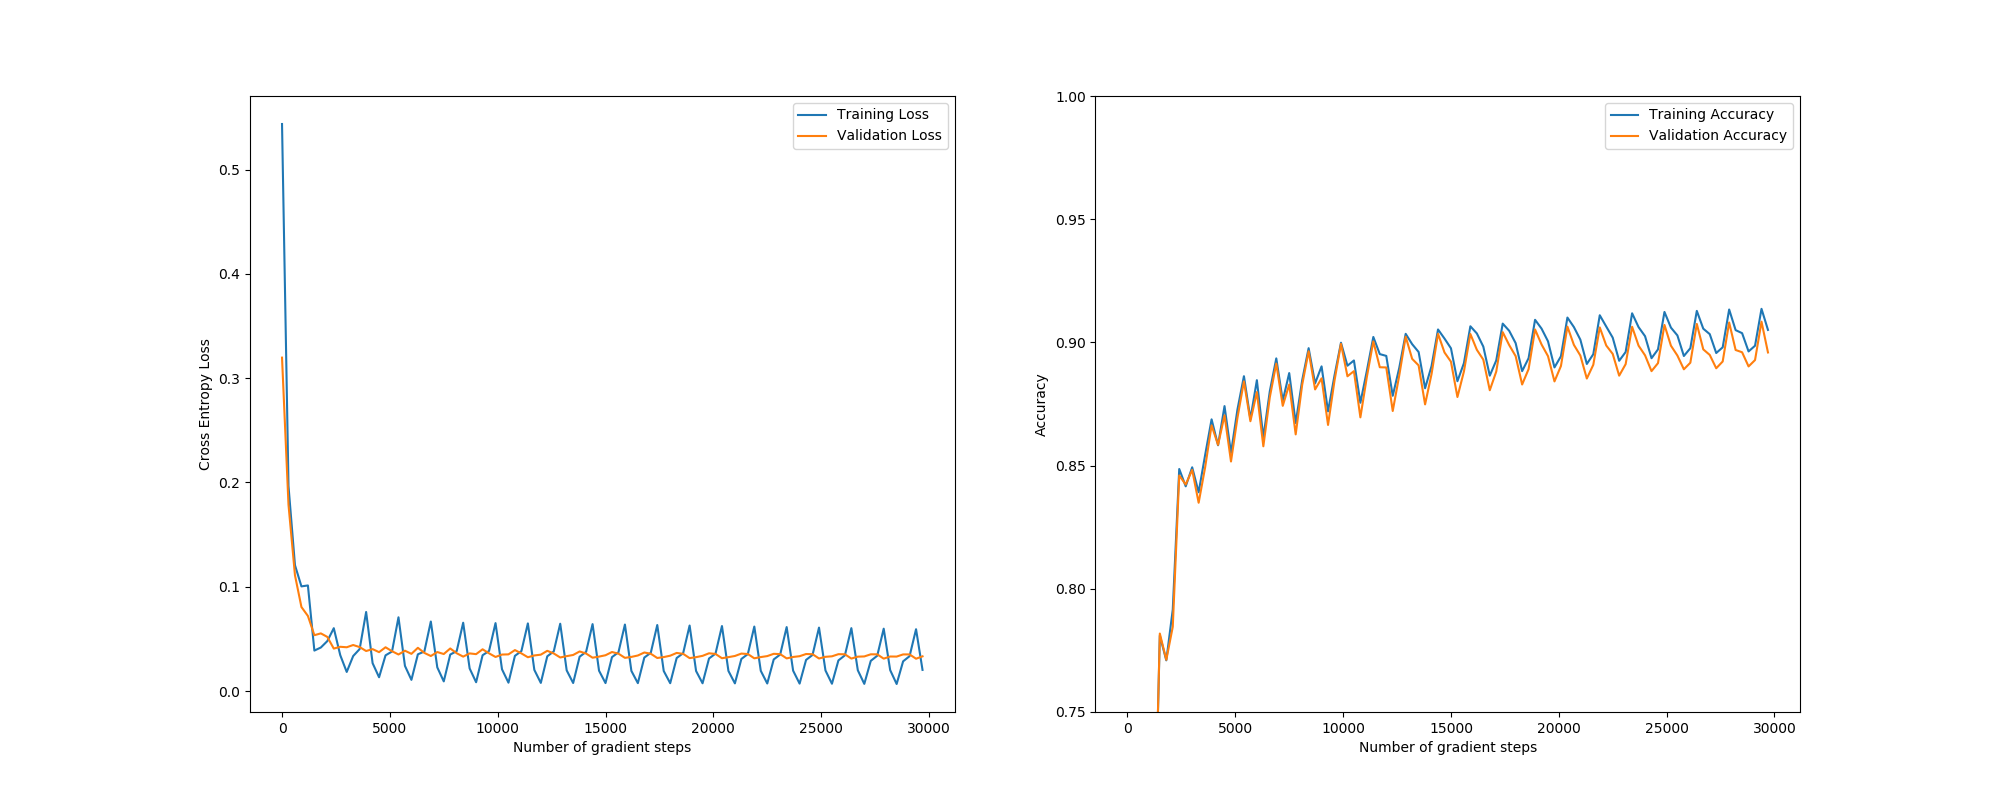
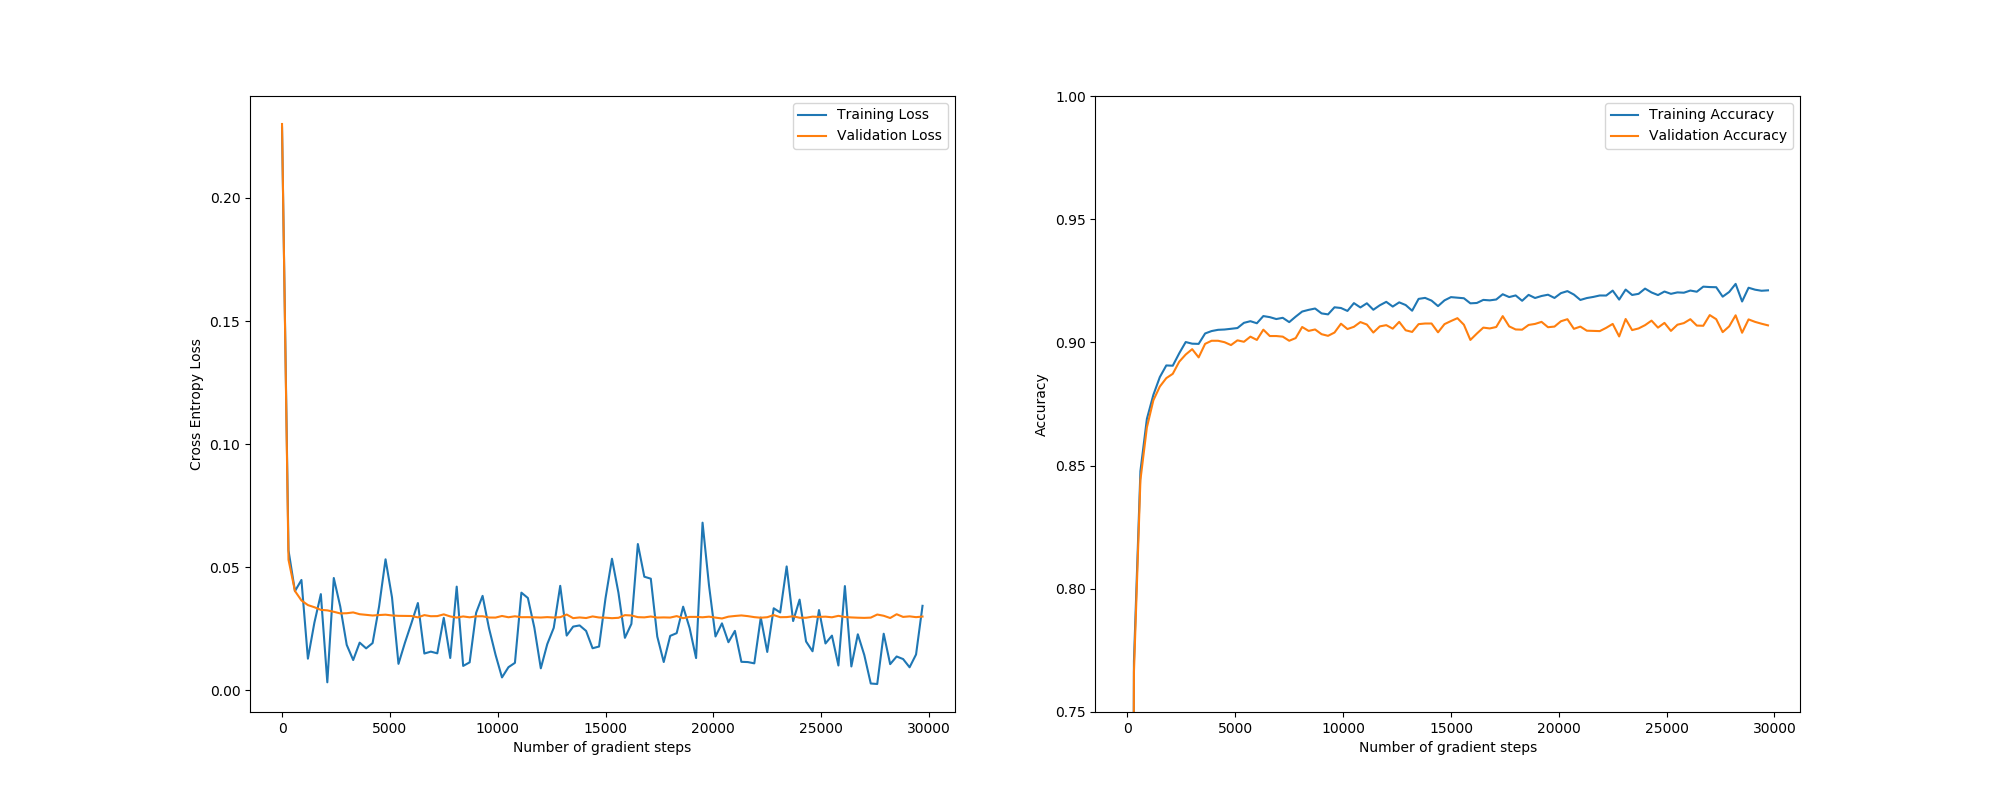
nothin new

diff --git a/TDT4265-StarterCode-master/assignment2/task2.py b/TDT4265-StarterCode-master/assignment2/task2.py
@@ -119,10 +119,10 @@ if __name__ == "__main__":
     momentum_gamma = .9  # Task 3 hyperparameter
 
     # Settings for task 3. Keep all to false for task 2.
-    use_shuffle = False
-    use_improved_sigmoid = False
-    use_improved_weight_init = False
-    use_momentum = False
+    use_shuffle = True
+    use_improved_sigmoid = True
+    use_improved_weight_init = True
+    use_momentum = True
 
     model = SoftmaxModel(
         neurons_per_layer,
